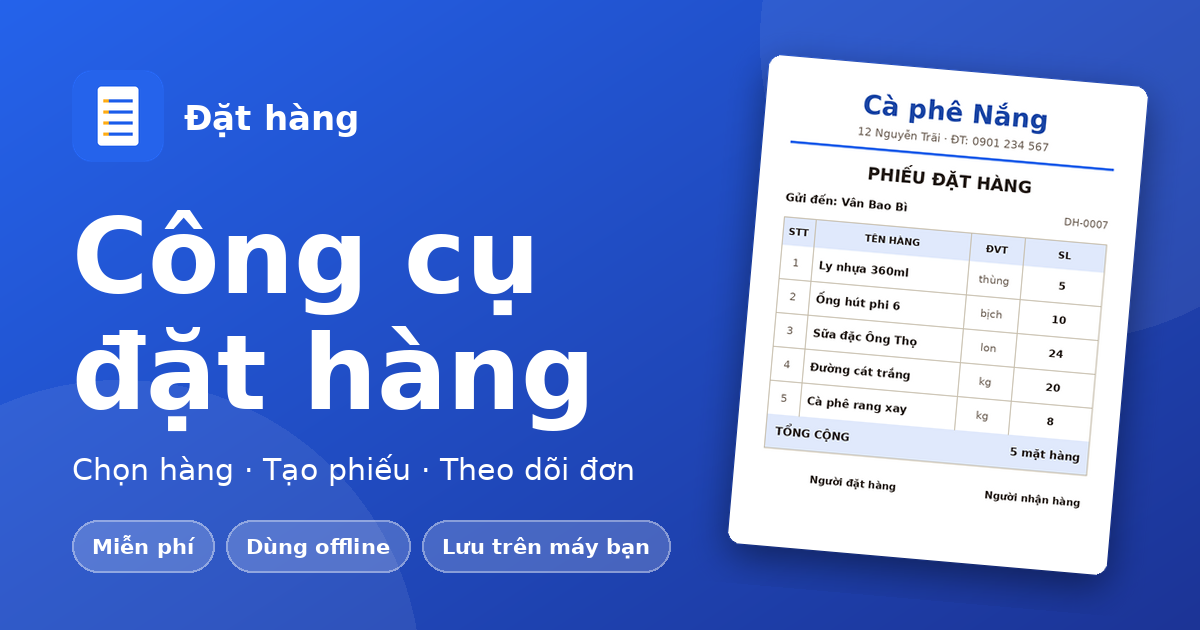
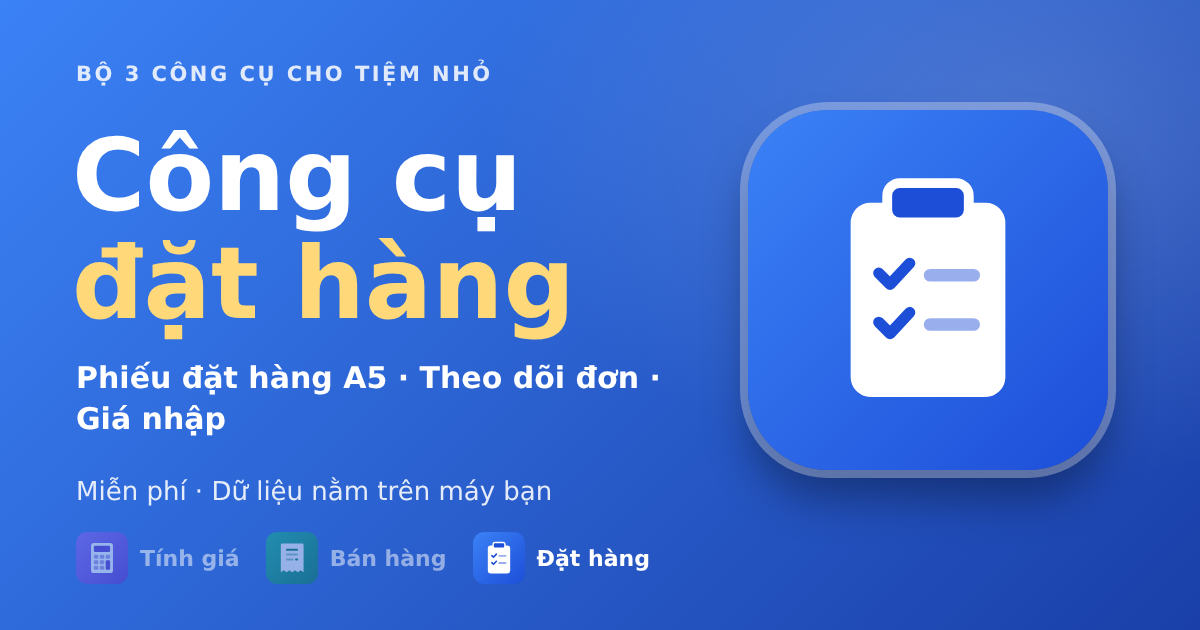
Ảnh preview và nội dung chia sẻ thống nhất cho cả 3 app
Ảnh og 1200x630 cùng bố cục (không chữ domain), tiêu đề/mô tả cùng khuôn, thêm og/twitter đầy đủ cho Tính giá.

Claude-Session: https://claude.ai/code/session_01RLCSxgnfFya6EnycBUmFEe

diff --git a/index.html b/index.html
@@ -4,13 +4,11 @@
 <meta charset="utf-8">
 <meta name="viewport" content="width=device-width,initial-scale=1,viewport-fit=cover">
 <title>Đặt hàng</title>
-<meta name="description" content="Công cụ hỗ trợ đặt hàng: chọn hàng, tạo phiếu đặt hàng khổ A5, chia sẻ hoặc in, theo dõi đơn và giá nhập. Dữ liệu lưu ngay trên máy bạn.">
-<meta name="theme-color" content="#2563eb"><link rel="canonical" href="https://congcudathang.vercel.app/">
-<meta property="og:type" content="website"><meta property="og:site_name" content="Công cụ đặt hàng"><meta property="og:locale" content="vi_VN">
-<meta property="og:title" content="Công cụ đặt hàng · Phiếu đặt hàng A5, theo dõi đơn">
-<meta property="og:description" content="Chọn hàng, tạo phiếu đặt hàng khổ A5, chia sẻ hoặc in, theo dõi đơn đã đặt và giá nhập. Miễn phí, dữ liệu lưu ngay trên máy bạn.">
-<meta property="og:url" content="https://congcudathang.vercel.app/"><meta property="og:image" content="https://congcudathang.vercel.app/og.png"><meta property="og:image:secure_url" content="https://congcudathang.vercel.app/og.png"><meta property="og:image:type" content="image/png"><meta property="og:image:width" content="1200"><meta property="og:image:height" content="630"><meta property="og:image:alt" content="Công cụ đặt hàng — chọn hàng, tạo phiếu đặt hàng A5, theo dõi đơn">
-<meta name="twitter:card" content="summary_large_image"><meta name="twitter:title" content="Công cụ đặt hàng · Phiếu đặt hàng A5, theo dõi đơn"><meta name="twitter:description" content="Chọn hàng, tạo phiếu đặt hàng khổ A5, chia sẻ hoặc in, theo dõi đơn và giá nhập. Dữ liệu lưu ngay trên máy bạn."><meta name="twitter:image" content="https://congcudathang.vercel.app/og.png"><meta name="twitter:image:alt" content="Công cụ đặt hàng — chọn hàng, tạo phiếu đặt hàng A5, theo dõi đơn">
+<meta name="description" content="Chọn hàng, tạo phiếu đặt hàng A5, gửi nhà cung cấp, theo dõi đơn và giá nhập. Bộ 3 công cụ cho tiệm nhỏ: Tính giá, Bán hàng, Đặt hàng. Miễn phí, dữ liệu lưu ngay trên máy bạn."><link rel="canonical" href="https://congcudathang.vercel.app/">
+<meta property="og:type" content="website"><meta property="og:site_name" content="Công cụ đặt hàng"><meta property="og:locale" content="vi_VN"><meta property="og:title" content="Công cụ đặt hàng · Phiếu đặt hàng A5, theo dõi đơn"><meta property="og:description" content="Chọn hàng, tạo phiếu đặt hàng A5, gửi nhà cung cấp, theo dõi đơn và giá nhập. Bộ 3 công cụ cho tiệm nhỏ: Tính giá, Bán hàng, Đặt hàng. Miễn phí, dữ liệu lưu ngay trên máy bạn."><meta property="og:url" content="https://congcudathang.vercel.app/">
+<meta property="og:image" content="https://congcudathang.vercel.app/og.png"><meta property="og:image:secure_url" content="https://congcudathang.vercel.app/og.png"><meta property="og:image:type" content="image/png"><meta property="og:image:width" content="1200"><meta property="og:image:height" content="630"><meta property="og:image:alt" content="Công cụ đặt hàng — phiếu đặt hàng A5, theo dõi đơn, giá nhập">
+<meta name="twitter:card" content="summary_large_image"><meta name="twitter:title" content="Công cụ đặt hàng · Phiếu đặt hàng A5, theo dõi đơn"><meta name="twitter:description" content="Chọn hàng, tạo phiếu đặt hàng A5, gửi nhà cung cấp, theo dõi đơn và giá nhập. Bộ 3 công cụ cho tiệm nhỏ: Tính giá, Bán hàng, Đặt hàng. Miễn phí, dữ liệu lưu ngay trên máy bạn."><meta name="twitter:image" content="https://congcudathang.vercel.app/og.png"><meta name="twitter:image:alt" content="Công cụ đặt hàng — phiếu đặt hàng A5, theo dõi đơn, giá nhập">
+<meta name="theme-color" content="#2563eb">
 <link rel="manifest" href="manifest.webmanifest">
 <link rel="icon" type="image/png" href="favicon.png"><link rel="apple-touch-icon" href="icon-180.png">
 <meta name="apple-mobile-web-app-capable" content="yes"><meta name="mobile-web-app-capable" content="yes"><meta name="apple-mobile-web-app-title" content="Đặt hàng"><meta name="apple-mobile-web-app-status-bar-style" content="black-translucent">
